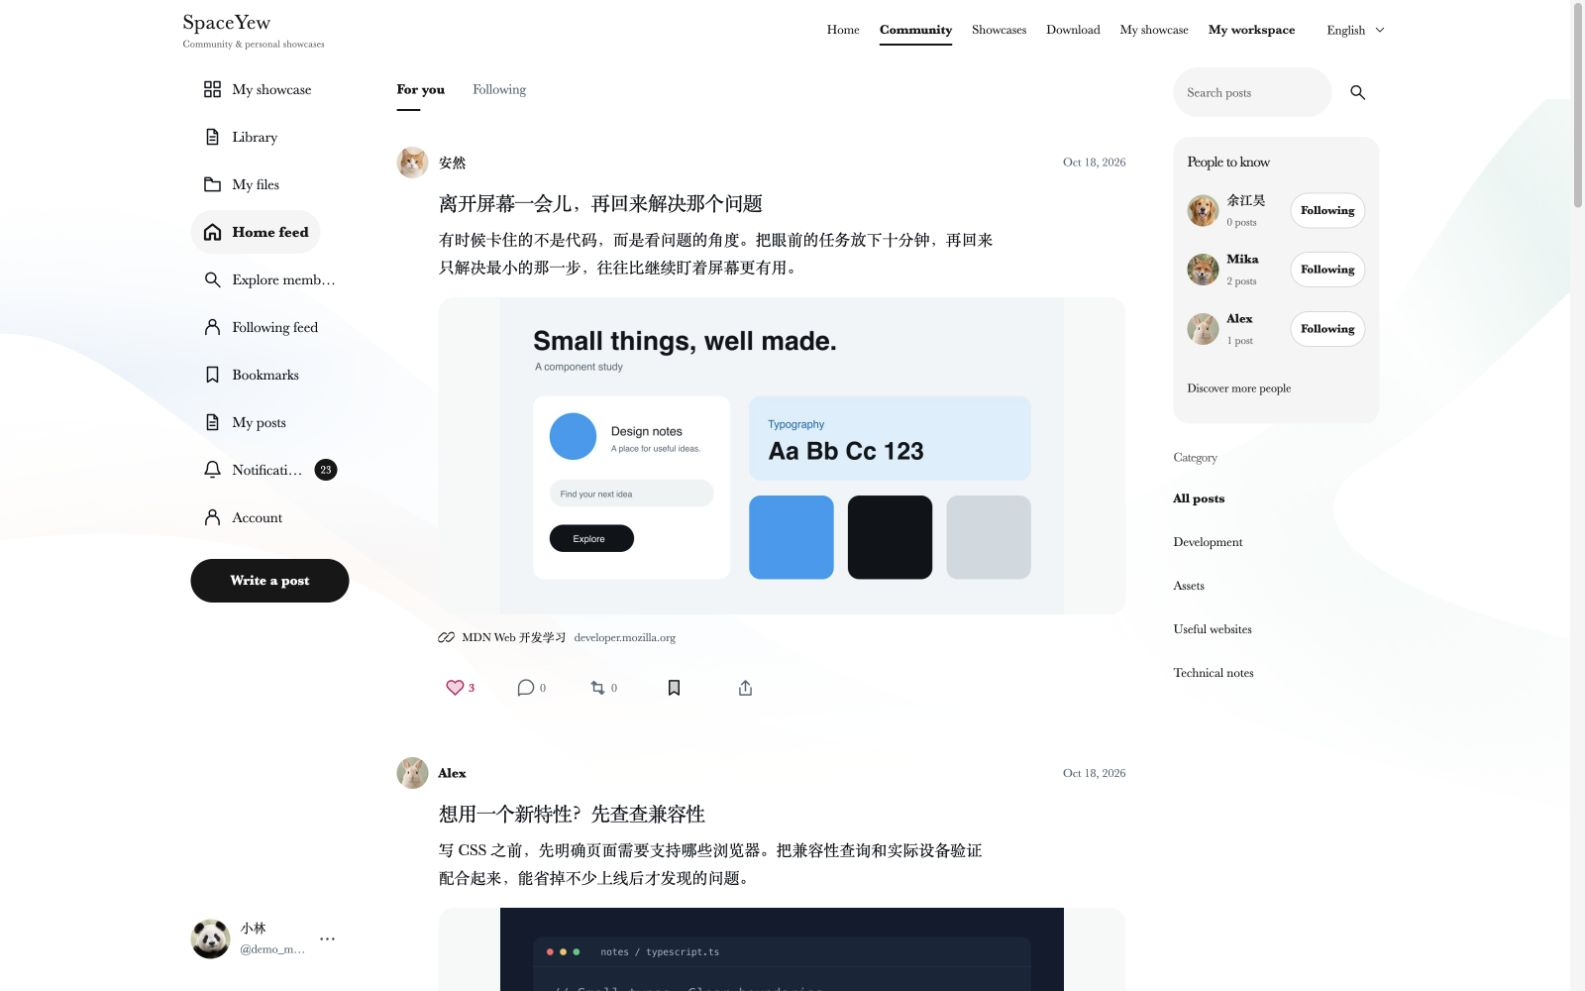
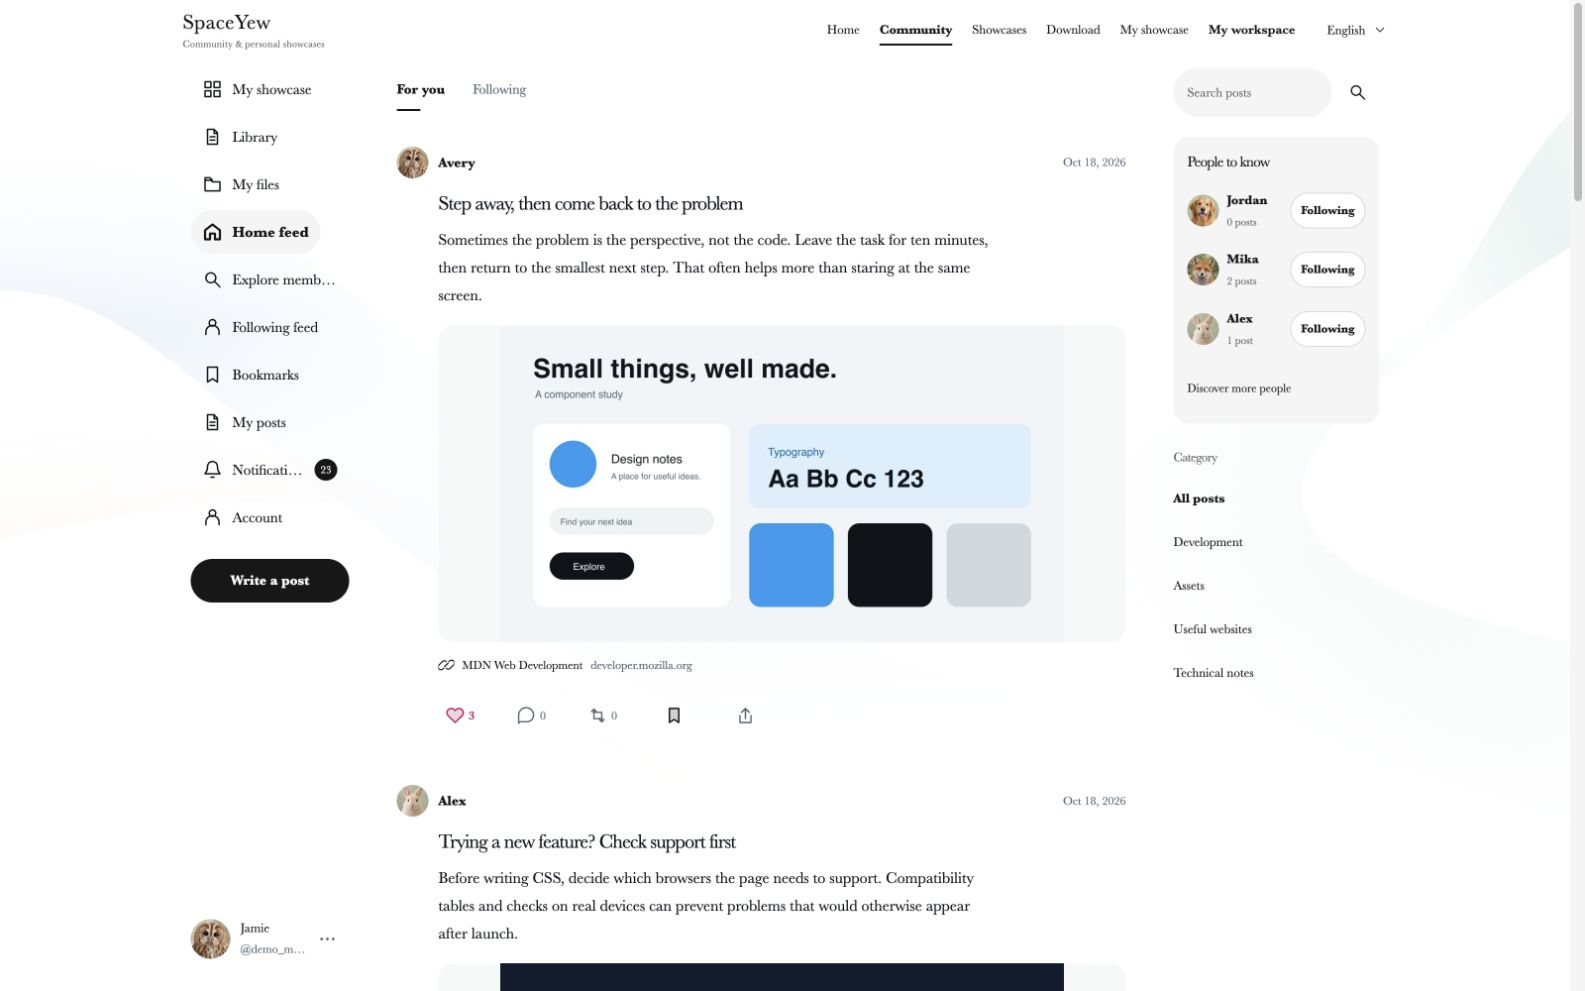
Show English sample posts and member names in README previews

diff --git a/README.md b/README.md
@@ -14,7 +14,7 @@ This repository contains the website's frontend, backend, tests and deployment e
 
 ## Preview
 
-Screenshots of the English web interface in a local demo environment. Sample member names and posts remain in their original language. The website also supports Simplified Chinese and Japanese.
+Screenshots of the English interface with English sample posts and fictional member profiles, captured in a local demo environment. The website also supports Simplified Chinese and Japanese.
 
 ### Homepage
 
